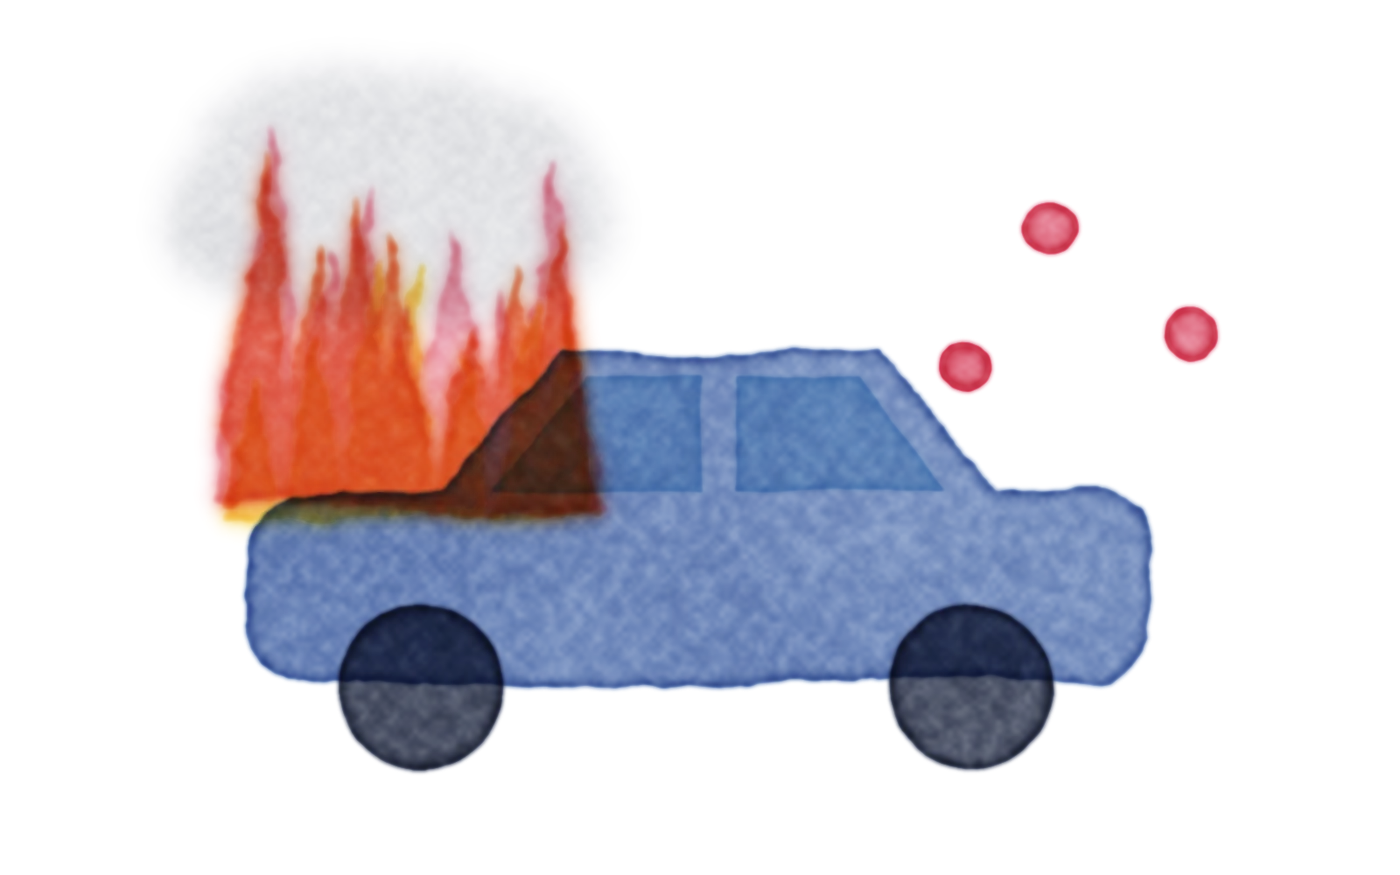
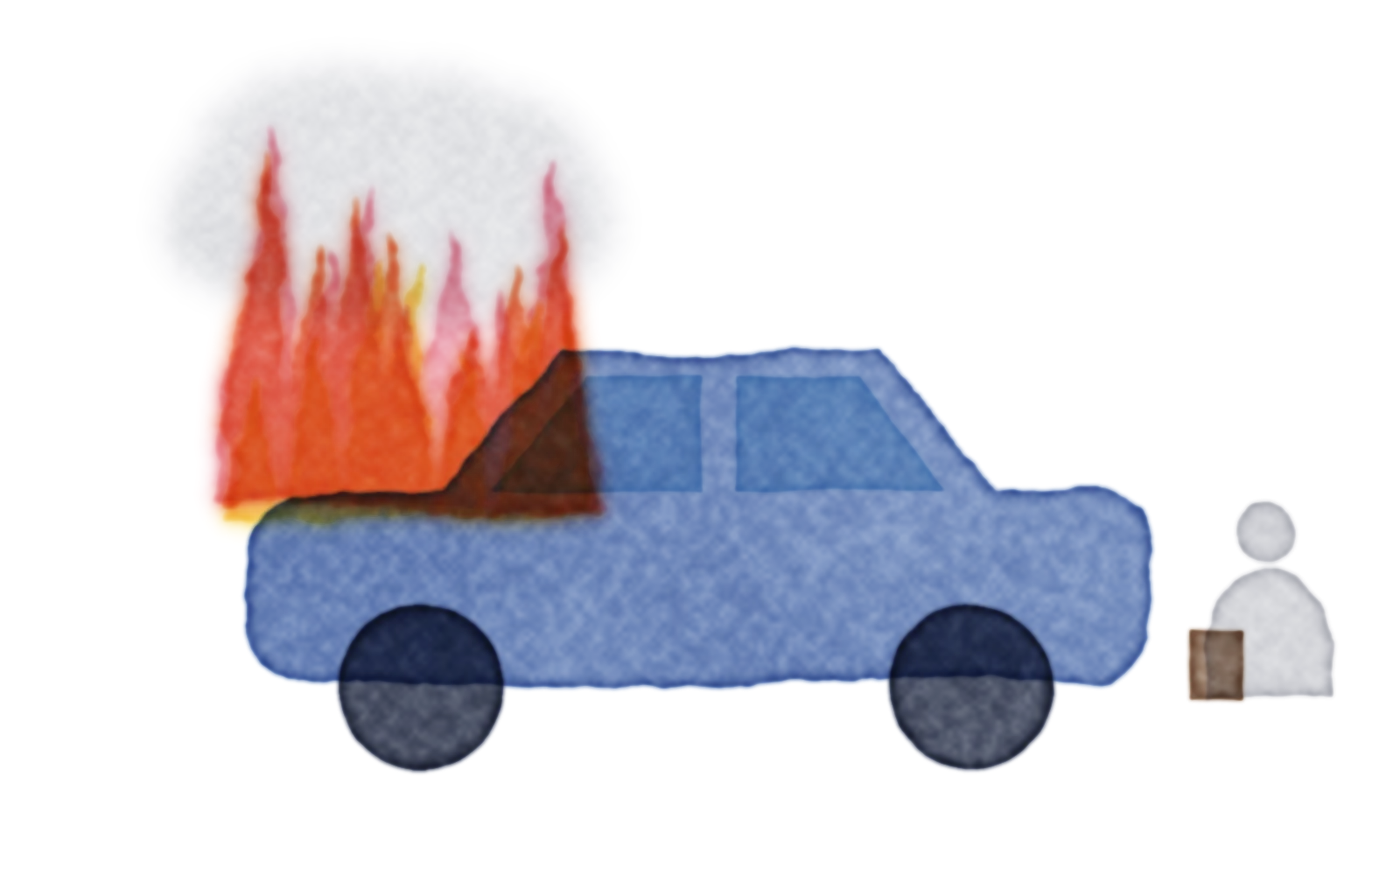
Round 3: switch test up top, chronotype + mechanic plates, maze back, text og:image, kicker cleanup

diff --git a/index.html b/index.html
@@ -8,13 +8,13 @@
 <meta property="og:title" content="Steven Bartlett thought he could multitask. The test that proved he couldn't.">
 <meta property="og:description" content="You can't remember what you never noticed. An illustrated, interactive guide to Dr. Sahar Yousef on The Diary of a CEO.">
 <meta property="og:url" content="https://jptramos.github.io/attention-leak/">
-<meta property="og:image" content="https://jptramos.github.io/attention-leak/img/hero_share.png">
+<meta property="og:image" content="https://jptramos.github.io/attention-leak/img/hero_share_text.png">
 <meta property="og:image:width" content="1200">
 <meta property="og:image:height" content="630">
 <meta name="twitter:card" content="summary_large_image">
 <meta name="twitter:title" content="Steven Bartlett thought he could multitask. The test that proved he couldn't.">
 <meta name="twitter:description" content="You can't remember what you never noticed. An illustrated, interactive guide to Dr. Sahar Yousef on The Diary of a CEO.">
-<meta name="twitter:image" content="https://jptramos.github.io/attention-leak/img/hero_share.png">
+<meta name="twitter:image" content="https://jptramos.github.io/attention-leak/img/hero_share_text.png">
 <title>The Attention Leak</title>
 <meta name="description" content="An illustrated, interactive guide to Dr. Sahar Yousef on The Diary of a CEO: why attention is the gate to memory, how it gets hijacked, and how to win it back.">
 <link rel="preconnect" href="https://fonts.googleapis.com">
@@ -373,7 +373,7 @@ footer{padding-block:80px 60px;text-align:center;font-family:var(--ui);font-size
   <div>
     <div class="kicker">The Diary of a CEO · Illustrated</div>
     <h1 style="margin-top:14px" id="headline">You can't remember what you never noticed.</h1>
-    <p class="deck">Neuroscientist Dr. Sahar Yousef explains why attention is the gate to memory, who's prying it open, and what actually closes it again.</p>
+    <p class="deck">Attention is the gate to memory. Somebody is holding it open for a living. Neuroscientist Dr. Sahar Yousef on how to shut it.</p>
     <div class="byline"><span>Conversation: <b>Steven Bartlett</b> (@StevenBartlett) × <b>Dr. Sahar Yousef</b>, UC Berkeley</span><span>20-minute read · 10 fixes · 7 things to try</span><span><a href="https://youtu.be/yePLuwL3FbM" target="_blank" rel="noopener">Watch the episode ↗</a></span></div>
   </div>
   <div class="hero-art"><img class="plate" src="img/hero.webp" alt="Watercolor of a head in profile. A warm glow sits where the mind is and a beam of light shines forward from the eyes, while red dots crowd the edges like notifications." width="1400" height="962"></div>
@@ -387,7 +387,43 @@ footer{padding-block:80px 60px;text-align:center;font-family:var(--ui);font-size
     <a class="pillar" href="#cause" style="--c:var(--signal)"><span class="n">II. The cause</span><h3>The playbook came from junk food</h3><p>More stimulation, less friction, less satisfaction. Tech copied the recipe that got us hooked on sugar.</p></a>
     <a class="pillar" href="#fix" style="--c:var(--leaf)"><span class="n">III. The fix</span><h3>Run it in reverse</h3><p>Sleep, then less noise, then more signal. Grayscale, VIP-only alerts, focus sprints and proper breaks.</p></a>
   </div>
-  <p class="ui" style="margin:18px 0 0;font-size:14px"><a href="#switch">Or start with the test that caught Steven ↓</a> &nbsp;·&nbsp; <a href="#card">In a hurry? Jump to the one-card version ↓</a></p>
+  <p class="ui" style="margin:18px 0 0;font-size:14px"><a href="#problem">Scroll for the full explainer ↓</a> &nbsp;·&nbsp; <a href="#card">In a hurry? Jump to the one-card version ↓</a></p>
+</section>
+
+<section class="part" id="test" style="--c:var(--noise);padding-top:56px">
+  <div class="col">
+    <h3 class="sub">Multitasking is a myth. Test it yourself.</h3>
+    <p>Steven called himself a “very proud context switcher.” So she tested him on camera. He wrote “I'm a great multitasker” and the numbers 1 to 20, first one line at a time, then alternating: letter, number, letter, number. The version below takes a minute.</p>
+  </div>
+
+  <div class="lab-box" id="switch" style="--c:var(--noise);border:0;background:transparent;padding-inline:0">
+    <div class="kicker">Switch cost</div>
+    <h3>Two rounds, same 20 tiles</h3>
+    <p class="intro">Round 1: tap the letters A to J, then the numbers 1 to 10. Round 2: alternate, A 1 B 2 C 3 and so on. Tap as fast as you can. The clock starts on your first tap.</p>
+    <div class="st-wrap">
+      <div class="st-board locked" id="st-board" aria-live="off"></div>
+      <div class="st-side">
+        <div class="st-task" id="st-task"><b>Ready?</b>Press start for round 1.</div>
+        <div class="st-clock" id="st-clock">0.0<span class="muted" style="font-size:20px"> s</span></div>
+        <div class="st-trail" id="st-trail" aria-live="polite"></div>
+        <div class="row" style="margin-top:14px"><button class="btn" id="st-go">Start round 1</button></div>
+      </div>
+    </div>
+    <div class="st-result" id="st-result" aria-live="polite">
+      <div class="brand"><span>My switch cost</span><span>The Attention Leak · after Dr. Sahar Yousef on DOAC</span></div>
+      <div class="st-bars">
+        <div class="st-bar"><span>One at a time</span><div class="t"><i id="st-b1" style="background:var(--calm)"></i></div><b id="st-t1">–</b></div>
+        <div class="st-bar"><span>Switching</span><div class="t"><i id="st-b2" style="background:var(--noise)"></i></div><b id="st-t2">–</b></div>
+      </div>
+      <p id="st-verdict" style="font-size:19px"></p>
+      <p class="ui small muted" style="margin:0 0 10px">Steven on the show: 31 s focused; switching, he reached only 8 in 30 s.</p>
+      <button class="btn ghost" id="st-save" type="button">Save my result as an image</button> <span class="ui small muted" id="st-save-note"></span>
+    </div>
+  </div>
+
+  <div class="col">
+    <p>Steven finished the first round in 31 seconds. In the switching round, after 30 seconds he had only reached the number 8. “I forgot how to count,” he said mid-test, and “where was I?” By his own math, he was working about 60% slower.</p>
+  </div>
 </section>
 
 <!-- ================= PART I ================= -->
@@ -416,7 +452,7 @@ footer{padding-block:80px 60px;text-align:center;font-family:var(--ui);font-size
     </div>
     <div class="steps">
       <div class="step"><div class="card"><p>Every second, your senses take in far more than you can use. About a third of the cortex is devoted to looking and listening. The brain evolved to watch for predators, so it notices anything that moves or makes noise.</p></div></div>
-      <div class="step"><div class="card"><p>Attention is a narrow gate. Yousef calls the brain a <strong>monotasking machine</strong>: it can truly focus on one thing at a time.</p></div></div>
+      <div class="step"><div class="card"><p>Attention is a narrow gate. Yousef calls the brain a <strong>monotasking machine</strong>. It can only focus on one thing at a time.</p></div></div>
       <div class="step"><div class="card"><p><strong>“You cannot remember anything that you do not attend to.”</strong> Only what passes the gate can become memory. And another word for memory is <em>learning</em>.</p></div></div>
       <div class="step"><div class="card"><p>Now add pings, buzzes, badges and open tabs. They crowd the gate. Less gets through, so less is remembered. In Yousef's words, any distraction that cuts your focus is also cutting your memory.</p></div></div>
     </div>
@@ -460,37 +496,9 @@ footer{padding-block:80px 60px;text-align:center;font-family:var(--ui);font-size
   <div class="col">
     <p>Yousef asks you to imagine you were handed a billion dollars to cure cancer and could hire the best minds alive. Would you give them smartwatches, Slack and a calendar full of calls? Or would you protect their best thinking?</p>
     <p>She calls the work <strong>digital hygiene</strong>. The first job is to clear away what is in the way.</p>
-    <h3 class="sub">Multitasking is a myth. Test it yourself.</h3>
-    <p>Steven called himself a “very proud context switcher.” So she tested him on camera. He wrote “I'm a great multitasker” and the numbers 1 to 20, first one line at a time, then alternating: letter, number, letter, number. The version below takes a minute.</p>
-  </div>
-
-  <div class="lab-box" id="switch" style="--c:var(--noise);border:0;background:transparent;padding-inline:0">
-    <div class="kicker">Switch cost</div>
-    <h3>Two rounds, same 20 tiles</h3>
-    <p class="intro">Round 1: tap the letters A to J, then the numbers 1 to 10. Round 2: alternate, A 1 B 2 C 3 and so on. Tap as fast as you can. The clock starts on your first tap.</p>
-    <div class="st-wrap">
-      <div class="st-board locked" id="st-board" aria-live="off"></div>
-      <div class="st-side">
-        <div class="st-task" id="st-task"><b>Ready?</b>Press start for round 1.</div>
-        <div class="st-clock" id="st-clock">0.0<span class="muted" style="font-size:20px"> s</span></div>
-        <div class="st-trail" id="st-trail" aria-live="polite"></div>
-        <div class="row" style="margin-top:14px"><button class="btn" id="st-go">Start round 1</button></div>
-      </div>
-    </div>
-    <div class="st-result" id="st-result" aria-live="polite">
-      <div class="brand"><span>My switch cost</span><span>The Attention Leak · after Dr. Sahar Yousef on DOAC</span></div>
-      <div class="st-bars">
-        <div class="st-bar"><span>One at a time</span><div class="t"><i id="st-b1" style="background:var(--calm)"></i></div><b id="st-t1">–</b></div>
-        <div class="st-bar"><span>Switching</span><div class="t"><i id="st-b2" style="background:var(--noise)"></i></div><b id="st-t2">–</b></div>
-      </div>
-      <p id="st-verdict" style="font-size:19px"></p>
-      <p class="ui small muted" style="margin:0 0 10px">Steven on the show: 31 s focused; switching, he reached only 8 in 30 s.</p>
-      <button class="btn ghost" id="st-save" type="button">Save my result as an image</button> <span class="ui small muted" id="st-save-note"></span>
-    </div>
   </div>
 
   <div class="col">
-    <p>Steven finished the first round in 31 seconds. In the switching round, after 30 seconds he had only reached the number 8. “I forgot how to count,” he said mid-test, and “where was I?” By his own math, he was working about 60% slower.</p>
     <p>That “where was I?” feeling has a name. Yousef calls it <strong>attentional baggage</strong>: you carry the last task into the next one, so you're never fully in either. Her fix is to finish the thing and close the tab before you start the next one.</p>
     <div class="stats">
       <div class="stat" style="--c:var(--noise)"><b>47 s</b><span>average time on one screen before switching (Gloria Mark)</span></div>
@@ -584,7 +592,7 @@ footer{padding-block:80px 60px;text-align:center;font-family:var(--ui);font-size
   <div class="split">
     <figure style="margin:0"><img class="plate" src="img/carfire.webp" alt="Watercolor of a blue car with flames rising from the hood." width="1400" height="875"><figcaption class="pcap">Five hours of sleep, asking for a tune-up.</figcaption></figure>
     <div class="tight">
-      <p class="kicker" style="color:var(--leaf)">1 · The foundation</p>
+      <p class="kicker" style="color:var(--leaf)">1 · Sleep</p>
       <h3 style="font-size:clamp(28px,2.4vw + 12px,40px);margin-bottom:12px">Sleep at least 7 hours</h3>
       <p>Founders come to Yousef asking for a 1% edge on five hours of sleep a night. She compares it to a car brought in for a performance tune-up while the engine is on fire. Put the fire out first.</p>
       <p>Short sleep hurts thinking and emotional control. Until it is fixed, she can't even measure your baseline.</p>
@@ -653,7 +661,7 @@ footer{padding-block:80px 60px;text-align:center;font-family:var(--ui);font-size
   <div class="split">
     <figure style="margin:0"><img class="plate" src="img/mountain.webp" alt="Watercolor of a blue mountain with a dotted switchback path climbing to the snowy summit and a tiny figure at the base." width="1400" height="918"><figcaption class="pcap">Pole pole: one step, then the next. The bigger gold dots are the cheese at each turn.</figcaption></figure>
     <div class="tight">
-      <p class="kicker" style="color:var(--leaf)">6a · The what: your Everest</p>
+      <p class="kicker" style="color:var(--leaf)">6 · Your Everest</p>
       <p>If you can't tell which of your 69 to-dos matters most, step back. Where do you want to be in five years? Steven called it your Everest, and she took the word and ran with it. She gets there by making you picture your deathbed, at 110.</p>
       <p>Steven tried it on air, eyes closed. First he noticed who was in the room, then what they thought of him. He came out with three priorities: a big family, being a role model his kids could point to, and proof that his time here was a net positive for the planet. Yousef's own answer: to have loved deeply, and to have served.</p>
     </div>
@@ -673,19 +681,22 @@ footer{padding-block:80px 60px;text-align:center;font-family:var(--ui);font-size
       <q>Family, and having a big family. Being a good role model to them. And them having evidence that me being here was net positive.</q>
       <div class="who"><span>Steven Bartlett, on what he saw at his deathbed</span><button class="copyx" data-x="@StevenBartlett tried the deathbed exercise live: picture yourself at 110. Who's in the room? What do they think of you? His answer: a big family, being a role model, proof his time here was net positive. (The Diary of a CEO, with Dr. Sahar Yousef)">Copy for X</button></div>
     </div>
-    <p class="kicker" style="color:var(--leaf);margin-top:48px">6b · The what: MITs, not LITs</p>
+    <p class="kicker" style="color:var(--leaf);margin-top:48px">Your MITs</p>
     <p>Each morning, treat your to-do list like a fridge. How much focus time do you have today? Then pick one to three <strong>MITs</strong>, most important tasks: the ones that would make today a success. Her lab has studied another way to ask it: “What will your future self thank you for?”</p>
-    <p>Everything else is a <strong>LIT</strong>, least important task: the DocuSign, the toilet paper order. LITs feel good because they give fast dopamine. They fill the gaps between meetings. Your best uninterrupted hour goes to an MIT.</p>
+    <p>Everything else is a <strong>LIT</strong>, a least important task, like the DocuSign or the toilet-paper order. LITs feel good because they give fast dopamine. They fill the gaps between meetings. Your best uninterrupted hour goes to an MIT.</p>
   </div>
 
-  <div class="col">
+  <div class="split rev">
+    <figure style="margin:0"><img class="plate" src="img/maze.webp" alt="Watercolor maze with a grey mouse at the start, a wedge of cheese at the end and gold crumbs along the route." width="1400" height="1026"><figcaption class="pcap">Crumbs along the route, so the next step is never in doubt.</figcaption></figure>
+    <div class="tight">
       <p style="font-family:var(--display);font-size:clamp(24px,2vw + 12px,34px);line-height:1.2">Sprinkle the cheese through the maze.</p>
       <p>An MIT is a long maze with a big hunk of cheese at the end. A LIT is a crumb right in front of you. So break the MIT into crumbs, each one paying out a little progress.</p>
       <p>Kilimanjaro guides told Yousef's husband the same thing: <em>pole pole</em>, Swahili for “slowly, slowly.” Steven's version comes from cycling coach Sir Dave Brailsford: <strong>pedals over podiums.</strong> Once British Cycling broke its goals into tiny ones, Brailsford told him, people stopped leaving at 5 p.m. and stayed until 1 a.m. They felt they were going somewhere. Steven calls it the <strong>progress principle</strong>.</p>
+    </div>
   </div>
 
   <div class="col">
-    <p class="kicker" style="color:var(--leaf);margin-top:48px">7 · The how: the focus sprint</p>
+    <p class="kicker" style="color:var(--leaf);margin-top:48px">7 · The focus sprint</p>
     <p>Yousef's method for deep work. Her lab found it helps people get up to twice as much done, with fewer mistakes. It has five steps.</p>
   </div>
 
@@ -743,9 +754,9 @@ footer{padding-block:80px 60px;text-align:center;font-family:var(--ui);font-size
   </div>
 
   <div class="split rev">
-    <figure style="margin:0"><img class="plate" src="img/sunmoon.webp" alt="Watercolor of a dotted arc across the sky from a rising sun, through a midday sun, to a crescent moon over a blue horizon." width="1400" height="787"><figcaption class="pcap">The same day, timed three ways. The shaded band is when each type should do the hard thing.</figcaption></figure>
+    <figure style="margin:0"><img class="plate" src="img/chrono.webp" alt="Watercolor of three energy curves across one day: an ochre curve peaking in the morning, a green curve with two peaks, and a blue curve rising to an evening peak, with a sun on the left and a crescent moon on the right." width="1400" height="700"><figcaption class="pcap">Three types, one day: morning peak, two peaks, evening peak.</figcaption></figure>
     <div class="tight">
-      <p class="kicker" style="color:var(--leaf)">9 · The when: your chronotype</p>
+      <p class="kicker" style="color:var(--leaf)">9 · Your chronotype</p>
       <p>Your attention span is not constant. You are a different version of yourself at 8 a.m., 2 p.m. and 8 p.m. Yousef describes three chronotypes, with the population shares she cites.</p>
       <p>Both Steven and Yousef are night owls. When she mentioned that PM-shifted people tend to be the most artistic and creative, Steven grinned: “Look at the camera and say that again.” He never records before 11 a.m. He once took a key meeting at 7 a.m. and called his own performance terrible.</p>
     </div>
@@ -962,10 +973,11 @@ $$('[data-scrolly]').forEach(sc=>{const id=sc.dataset.scrolly;const steps=[...sc
     $('#st-result').classList.add('on');requestAnimationFrame(()=>{$('#st-b1').style.width=(100*a/m)+'%';$('#st-b2').style.width=(100*b/m)+'%'});
     const pct=Math.round((b/a-1)*100);
     $('#st-verdict').innerHTML=pct>0?`Switching made you <strong>${pct}% slower</strong> on the same 20 taps. Notice the moments you had to ask yourself “where was I?” That pause is attentional residue.`:`You matched or beat your focused time. Most people slow down a lot; Steven lost about 60%. Try it with the phone buzzing next to you.`}
+  const SHARE_ART=new Image();SHARE_ART.src='img/hero_share.webp';
   $('#st-save').addEventListener('click',()=>{const[a,b]=times;if(!a||!b)return;const c=document.createElement('canvas');c.width=1080;c.height=1080;const x=c.getContext('2d');
-    x.fillStyle='#F3F4EF';x.fillRect(0,0,1080,1080);x.fillStyle='#1A2030';x.font='italic 34px "Instrument Serif", Georgia, serif';x.fillText('My switch cost',80,130);
-    const pct=Math.round((b/a-1)*100);x.font='120px "Instrument Serif", Georgia, serif';x.fillStyle='#C23F57';x.fillText(pct>0?pct+'% slower':'No slowdown',80,290);
-    x.fillStyle='#3A4152';x.font='34px Georgia, serif';x.fillText('when I switched between two easy tasks',80,350);
+    x.fillStyle='#F3F4EF';x.fillRect(0,0,1080,1080);x.fillStyle='#1A2030';const pct=Math.round((b/a-1)*100);const hi=SHARE_ART;try{if(hi.complete&&hi.naturalWidth){x.globalAlpha=.3;x.drawImage(hi,540,540,520,520*hi.naturalHeight/hi.naturalWidth);x.globalAlpha=1}}catch(e){}
+    x.fillStyle='#1A2030';x.font='italic 34px "Instrument Serif", Georgia, serif';x.fillText('The Attention Leak',80,130);x.font='96px "Instrument Serif", Georgia, serif';x.fillStyle='#C23F57';x.fillText(pct>0?'I was '+pct+'% slower.':'No slowdown.',80,270);x.fillStyle='#1A2030';x.fillText('Are you?',80,370);
+    x.fillStyle='#3A4152';x.font='30px Georgia, serif';x.fillText('Switching between two easy tasks',80,420);
     const m=Math.max(a,b),W=760;[[a,'One at a time','#34509A'],[b,'Switching','#C23F57']].forEach(([t,l,col],i)=>{const y=470+i*130;x.fillStyle='#3A4152';x.font='28px Georgia, serif';x.fillText(l+' · '+t.toFixed(1)+' s',80,y);x.fillStyle='#E3E5DD';x.fillRect(80,y+20,W,40);x.fillStyle=col;x.fillRect(80,y+20,W*t/m,40)});
     x.fillStyle='#3A4152';x.font='30px Georgia, serif';x.fillText('Steven Bartlett on the show: about 60% slower.',80,820);
     x.fillStyle='#646B7A';x.font='26px Georgia, serif';x.fillText('Try it: jptramos.github.io/attention-leak',80,960);x.fillText('After Dr. Sahar Yousef on The Diary of a CEO',80,1000);
